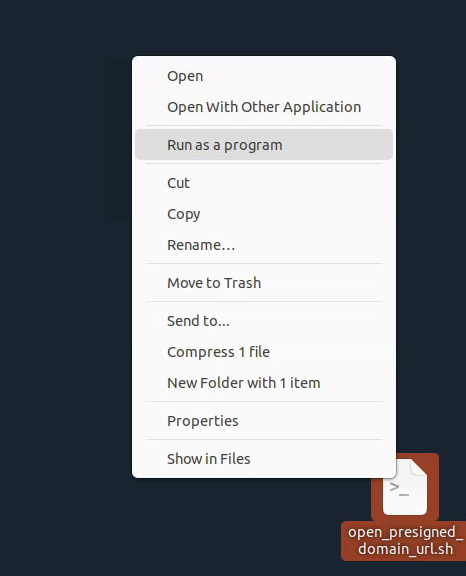
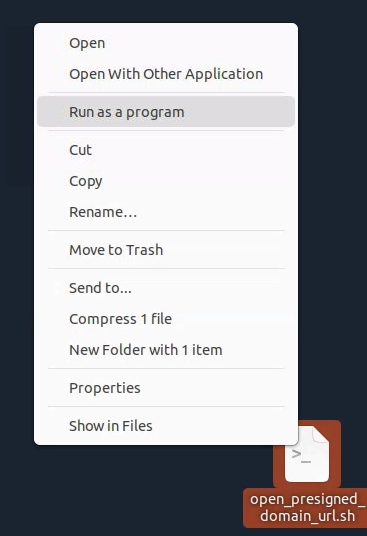
update size and alignment of all images

diff --git a/docs/index.md b/docs/index.md
@@ -38,30 +38,28 @@ Once you are permitted to participate in the TA2 challenge, you should receive t
 >
 >Amazon WorkSpaces 
 
-Follow the steps below to finish setting up your WorkSpace.
-1. Click the link for your user profile and create a password for your account. Account passwords can be reset by an administrator or through the client.
-
-<img src="images/workspace-1.png">
+Follow the steps below to finish setting up your WorkSpace.    
+  
+1. Click the link for your user profile and create a password for your account. Account passwords can be reset by an administrator or through the client.  
+    <p align="center"><img src="images/workspace-1.png" alt="workspace-1" width="400"/></p>
 
 2. If you haven't already, download and install the WorkSpaces client at https://clients.amazonworkspaces.com/. The WorkSpaces client is compatible with most operating systems.
 
 3. Open the WorkSpace client and input your registration code in the in the input box.
+    <p align="center"><img src="images/workspace-2.png" alt="workspace-2" width="500"/></p>
 
-<img src="images/workspace-2.png">
+4. Log-in using the username from the WorkSpaces email and the password you created in Step 1.  
+    <p align="center"><img src="images/workspace-3.png" alt="workspace-3" width="500"/></p>
 
-4. Log-in using the username from the WorkSpaces email and the password you created in Step 1. 
+5. Once you successfully log-in, the client will expand to fill your screen and load your WorkSpace. On its first load, this may take a couple minutes to fully initialize. If you have a multi-monitor or high-resolution screen, the WorkSpace desktop may seem zoomed-out or cropped. Closing the client and re-logging in sometimes helps with this issue. If the issue persists, disable High-DPI mode in Settings -> Display Settings.
+    <p align="center"><img src="images/workspace-4.png" alt="workspace-4" width="900"/></p>
 
-<img src="images/workspace-3.png">
-
-5. Once you successfully log-in, the client will expand to fill your screen and load your WorkSpace. On its first load, this may take a couple minutes to fully initialize. If you have a multi-monitor or high-resolution screen, the WorkSpace desktop may seem zoomed-out or cropped. Closing the client and re-logging in sometimes helps with this issue. If the issue persists, disable High-DPI mode in Settings -> Display Settings. 
-
-<img src="images/workspace-4.png">
-
-That's it! A couple of additional points:
-- The default WorkSpace supports "Paste-Only" clipboard redirect (using Ctrl+Shift+V in your WorkSpace). This means you can copy and paste things from your local workstation to the WorkSpace, but not the other way around.
-- Your WorkSpace user will not have access as local administrator by default, but the user account is able to install user level libraries and packages. 
-- Pre-installed applications such as FireFox, VSCode, and MySQL WorkBench can be found in the Applications library, which can be opened by clicking "Show Applications".
-- WorkSpaces will shut down after an hour of inactivity.
+That's it! A couple of additional points:    
+  
+- The default WorkSpace supports "Paste-Only" clipboard redirect (using Ctrl+Shift+V in your WorkSpace). This means you can copy and paste things from your local workstation to the WorkSpace, but not the other way around.  
+- Your WorkSpace user will not have access as local administrator by default, but the user account is able to install user level libraries and packages.   
+- Pre-installed applications such as FireFox, VSCode, and MySQL WorkBench can be found in the Applications library, which can be opened by clicking "Show Applications".  
+- WorkSpaces will shut down after an hour of inactivity.  
 
 ### Connecting to your team's SageMaker Studio
 
@@ -95,19 +93,20 @@ Follow the steps below to configure your WorkSpaces to connect to your SageMaker
 
 	`dtc-setup.sh <TEAM_DOMAIN_ID> <USER_PROFILE_NAME>`
 
-<img src="images/sagemaker-1.png">
+<p align="center"><img src="images/sagemaker-1.png" alt="sagemaker-1" width="700"/></p>
 
 You'll know the script ran successfully when there is a new file on your desktop named `open_presigned_domain_url.sh`. 
 
 4. Launch the script directly from the Desktop by right-clicking it and clicking "Run as Program". Alternatively, you can run it from the terminal.
 
-<img src="images/sagemaker-2.png">
+<p align="center"><img src="images/sagemaker-2.png" alt="sagemaker-2" width="300"/></p>
 
 Running the launch script should open a new tab or window on your browser and load SageMaker Studio default page. 
 
-<img src="images/sagemaker-3.png">
+<p align="center"><img src="images/sagemaker-3.png" alt="sagemaker-3" width="900"/></p>
 
-A few important things to consider when using SageMaker instances:    
+A few important things to consider when using SageMaker instances:      
+  
 - DARPA provided each team a budget to maintain the team’s infrastructure, perform analysis, and develop models. Please use your resources judiciously and efficiently!   
 - SageMaker instances will continually accrue expenses so long as they are active. We strongly advise that you shut down any unused or idle instances to avoid accruing unwanted costs. See [SageMaker Instances](sagemaker_instances.md) for available instances and their associated rates. These rates are subject to change.   
 - APL will be sending weekly cost reports via email to inform you of the status of your weekly/total cost accrual and resource usage statistics.  
@@ -121,39 +120,39 @@ Using SageMaker Studio tool, you will be able to access GPU resources to train a
 
 1. Once you have SageMaker Studio loaded on your browser, select "Open Launcher" button.
 
-<img src="images/quick-start-1.png">
+<p align="center"><img src="images/quick-start-1.png" alt="quick-start-1" width="700"/></p>
 
 2. Configure your python environment by selecting your Python image and SageMaker instance. 
 
-<img src="images/quick-start-2.png">
+<p align="center"><img src="images/quick-start-2.png" alt="quick-start-2" width="600"/></p>
 
 Select your Python image:
-<img src="images/quick-start-3.png">
+<p align="center"><img src="images/quick-start-3.png" alt="quick-start-3" width="600"/></p>
 
 Select your [SageMaker instance](sagemaker_instances.md):
-<img src="images/quick-start-4.png">
+<p align="center"><img src="images/quick-start-4.png" alt="quick-start-4" width="600"/></p>
 
 Once selected click the "Select" button.
 
 3. Instantiate a notebook
-<img src="images/quick-start-5.png">
+<p align="center"><img src="images/quick-start-5.png" alt="quick-start-5" width="600"/></p>
 
 This will create a "Untitled.ipynb" file and begin instantiating the kernel with the selected Python image and SageMaker instance. This instantiation process may take a while as SageMaker is provisioning your environment with the necessary resources. You will encounter this notification:
 
-<img src="images/quick-start-6.png">
+<p align="center"><img src="images/quick-start-6.png" alt="quick-start-6" width="600"/></p>
 
 4. Once the instantiation process is complete and you see this screen below, you may begin developing!
 
-<img src="images/quick-start-7.png">
+<p align="center"><img src="images/quick-start-7.png" alt="quick-start-7" width="600"/></p>
 
 
 5. To shutdown a SageMaker instance, click on the "Running Instances" Icon (left side of the dashboard). 
 
-<img src="images/quick-start-8.png">
+<p align="center"><img src="images/quick-start-8.png" alt="quick-start-8" width="600"/></p>
 
 Click on the "Power" button to turn off a specific instance:
 
-<img src="images/quick-start-9.png" alt="drawing" width="200">
+<p align="center"><img src="images/quick-start-1.png" alt="quick-start-1" width="600"/></p>
 
 ### Transferring data to and from S3 buckets
 
@@ -168,7 +167,7 @@ You can access your private storage within SageMaker Studio. To transfer files f
 #### Transferring files using terminal:
 
 1. Open SageMaker Studio's launcher and select "System Terminal":
-<img src="images/storage-1.png">
+<p align="center"><img src="images/storage-1.png" alt="storage-1" width="600"/></p>
 
 In the terminal, you may use the [AWS CLI S3](https://awscli.amazonaws.com/v2/documentation/api/latest/reference/s3/index.html) to run commands (e.g., `cp`, `ls`, `rm`, etc.).
 

diff --git a/docs/workspace-selfservice.md b/docs/workspace-selfservice.md
@@ -6,25 +6,26 @@ All participants have been provided with an AWS WorkSpace to facilitate SageMake
 
 To manage your workspace, launch the AWS WorkSpaces client application on your computer and log in with your credentials.
 
-Navigate to Self-Service Options:
-1. Click on your WorkSpace name or the settings icon within the client interface.
-2. Select "Self-Service Management" or "Manage WorkSpace" from the dropdown menu.
-
-<img src="../images/workspace-selfservice.png">
-
 ## Rebooting Your WorkSpace
 
-If your WorkSpace becomes unresponsive or you need to restart it for any reason:
+If your WorkSpace becomes unresponsive or you need to restart it for any reason:   
+  
+1. Click on the "Amazon Workspaces" dropdown from within the client interface.  
+2. From the dropdown options, select "Restart WorkSpace".   
+3. Confirm the action to initiate the restart. The restart process will take several minutes.
+2. Wait for a few minutes while your WorkSpace restarts. You might need to log-in again after restart.
 
-1. From the self-service options, select "Reboot WorkSpace" and confirm the reboot.
-2. Wait for a few minutes while your WorkSpace reboots. You might need to log-in again after reboot. 
+<p align="center"><img src="../images/workspace-restart.png" alt="workspace-restart" width="500"/></p>
 
 ## Rebuilding Your WorkSpace
 
 Rebuilding restores your WorkSpace to its original state. This is usually a last-resort step when the workspace is unresponsive or unable to connect. **Important: This will erase all data and applications that are not saved on the user volume (D: drive).**
 
-1. From the self-service options, select "Rebuild WorkSpace". Read the warning message carefully.
-2. Confirm the action to initiate the rebuild. The rebuild process may take up to 20 minutes.
+1. Click on the Settings dropdown from within the client interface.
+2. From the self-service options, select "Rebuild WorkSpace". Read the warning message carefully.
+3. Confirm the action to initiate the rebuild. The rebuild process may take up to 20 minutes.
+
+<p align="center"><img src="../images/workspace-selfservice.png" alt="workspace-selfservice" width="500"/></p>
 
 ## Changing Compute Type
 
@@ -34,6 +35,8 @@ You can change your WorkSpace to a different compute type to better suit your pe
 2. Choose your desired compute type from the list of available options (see the table below for details). Confirm the change when prompted.
 3. When your WorkSpace compute type change is in progress, you are disconnected from the WorkSpace. During this time, you can't use or make changes to the WorkSpace. This process might take up to an hour.
 
+**Upgrading to a higher compute type may increase costs. Please review the [AWS pricing details](https://aws.amazon.com/workspaces-family/workspaces/pricing/) before making changes.**  
+
 | Compute Type | vCPU | Memory (GB) | Root Volume (GB) | User Volume (GB) | Monthly Price (US East 1) |
 |--------------|------|-------------|------------------|------------------|---------------------------|
 | Value        | 1    | 2           | 80               | 10               | $25                      |
@@ -42,8 +45,5 @@ You can change your WorkSpace to a different compute type to better suit your pe
 | Power        | 4    | 16          | 80               | 100              | $125                     |
 | PowerPro     | 8    | 32          | 80               | 100              | $225                     |
 
-> Note: GPU Compute types are currently unavailable as a direct upgrade from your existing workspace, but we plan on rolling them out as a shared team resource in the near future. 
-
-## Cost Implications
-
-Upgrading to a higher compute type may increase costs. Please review the [pricing details](https://aws.amazon.com/workspaces-family/workspaces/pricing/) before making changes. 
+**Note**: GPU Compute types are currently unavailable as a direct upgrade from your existing workspace, but we plan on rolling them out as a shared team resource in the near future.  
+**Note**: Compute type cost information is subject to change. See the [AWS pricing details](https://aws.amazon.com/workspaces-family/workspaces/pricing/) for the most up-to-date compute type pricing details.

diff --git a/docs/sagemaker_instances.md b/docs/sagemaker_instances.md
@@ -1,7 +1,9 @@
-# Recommended Instance Types for SageMaker Studio Apps (CodeEditor and JupyterLab)
+# Recommended Instance Types for SageMaker Studio Apps  
+
+Applies for CodeEditor and JupyterLab instances.    
 
 **Note**: Instance and cost information are subject to change.   
-Follow the "Details" link to see most up-to-date instance details, including cost.
+See the **"Details Link"** column for the most up-to-date instance details, including cost.
   
 | Row | Instance Type  | CPU | RAM (GiB) | GPU | GPU Memory (GiB) | GPU Type       | Purpose          | Quota       | Price per Hour ($) | Details Link                                              |
 |-----|----------------|-----|-----------|-----|------------------|----------------|------------------|-------------|-------------------|----------------------------------------------------------|
